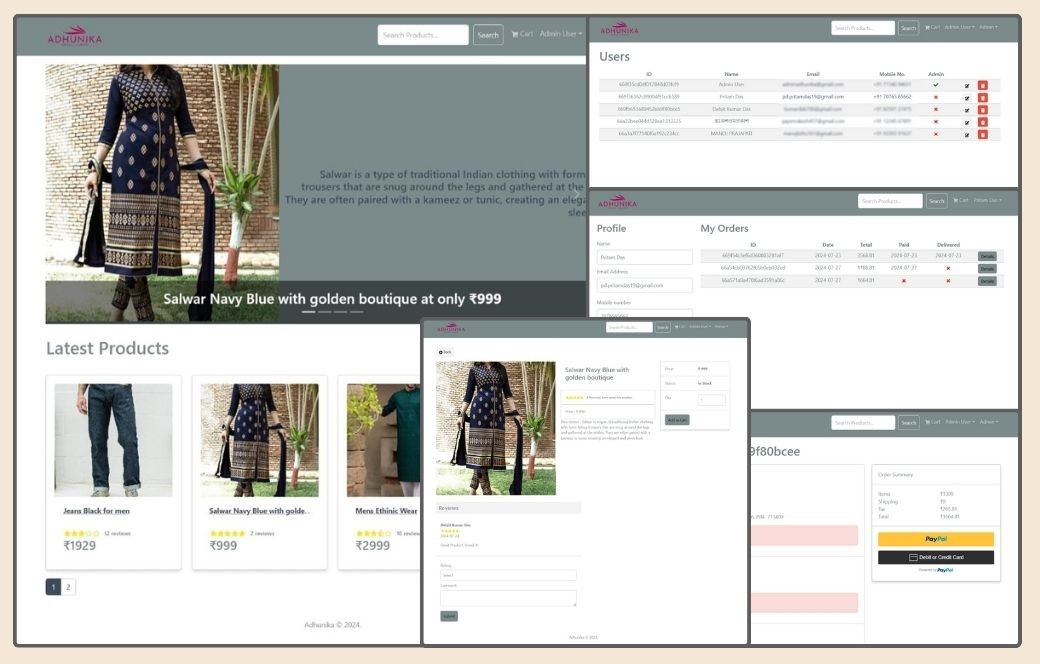
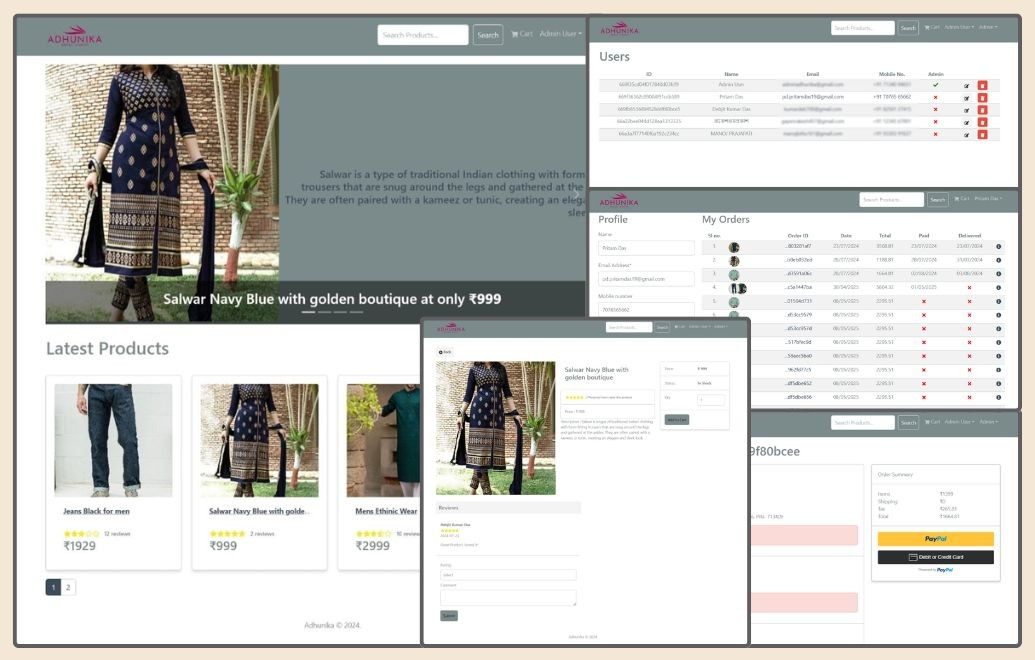
Forntend: Profile Screen Updated

diff --git a/frontend/src/screens/ProfileScreen.jsx b/frontend/src/screens/ProfileScreen.jsx
@@ -1,18 +1,18 @@
-import React from 'react'
-import { useState, useEffect } from "react"
+import React, { useState, useEffect } from "react"
+import { Link } from "react-router-dom"
 import { Table, Form, Button, Row, Col } from "react-bootstrap"
-import { LinkContainer } from "react-router-bootstrap"
 import { useDispatch, useSelector } from "react-redux"
 import { toast } from "react-toastify"
 import Message from "../components/Message"
 import Loader from "../components/Loader"
 import Meta from "../components/Meta.jsx"
 import VerifyOTPModal from "../components/VerifyOTPModal.jsx"
-import { FaTimes, FaEye, FaEyeSlash, FaCheck } from "react-icons/fa"
+import { FaTimes, FaEye, FaEyeSlash, FaCheck, FaInfoCircle } from "react-icons/fa"
 import { useProfileMutation, useSendOtpMutation, useVerifyOtpMutation } from "../slicers/usersApiSlice"
 import { logout, setCredentials } from "../slicers/authSlice"
 import { useGetMyOrdersQuery } from "../slicers/orderApiSlices"
 import { dateFormatting } from "../constants.js"
+import AvatarGroup from "../components/AvatarGroup.jsx"
 
 const ProfileScreen = () => {
   const [name, setName] = useState("")
@@ -200,7 +200,8 @@ const ProfileScreen = () => {
               <thead>
                 <tr>
                   <th>Sl no.</th>
-                  <th>ID</th>
+                  <th></th>
+                  <th>Order ID</th>
                   <th>Date</th>
                   <th>Total</th>
                   <th>Paid</th>
@@ -210,9 +211,12 @@ const ProfileScreen = () => {
               </thead>
               <tbody>
                 {orders.map((order, index) => (
-                  <tr key={order._id}>
+                  <tr key={order._id} className="my-10">
                     <td>{++index}.</td>
-                    <td>{order._id}</td>
+                    <td><AvatarGroup avatars={order.orderItems} size={35} /></td>
+                    <td>
+                      <Link className="text-decoration-none" to={`/order/${order._id}`}><span>...{order._id.slice(-9)}</span></Link>
+                    </td>
                     <td>{dateFormatting(order.createdAt).substring(0, 10)}</td>
                     <td>{order.totalPrice}</td>
                     <td>
@@ -226,9 +230,9 @@ const ProfileScreen = () => {
                       ) : <FaTimes style={{ color: "red" }} />}
                     </td>
                     <td>
-                      <LinkContainer to={`/order/${order._id}`}>
-                        <Button variant="dark" className="btn btn-dark btn-sm">Details</Button>
-                      </LinkContainer>
+                      <Link to={`/order/${order._id}`}>
+                        <FaInfoCircle />
+                      </Link>
                     </td>
                   </tr>
                 ))}

diff --git a/frontend/src/components/AvatarGroup.jsx b/frontend/src/components/AvatarGroup.jsx
@@ -1,0 +1,52 @@
+import React from "react";
+import { Image } from "react-bootstrap";
+
+const AvatarGroup = ({ avatars = [], maxVisible = 2, size = 50 }) => {
+  const visibleAvatars = avatars.slice(0, maxVisible);
+  const extraCount = avatars.length - maxVisible;
+
+  return (
+    <div style={{ display: "flex", alignItems: "center" }}>
+      {visibleAvatars.map((avatar, index) => (
+        <Image
+          key={index}
+          src={avatar.image}
+          alt={avatar.name}
+          roundedCircle
+          width={size}
+          height={size}
+          style={{
+            border: "1.5px solid #7B8A8B",
+            marginLeft: index === 0 ? 0 : -size / 3,
+            zIndex: visibleAvatars.length - index,
+            objectFit: "cover",
+          }}
+          title={avatar.name}
+        />
+      ))}
+      {extraCount > 0 && (
+        <div
+          style={{
+            width: size,
+            height: size,
+            marginLeft: -size / 3,
+            zIndex: 0,
+            backgroundColor: "#6c757d",
+            color: "white",
+            borderRadius: "50%",
+            display: "flex",
+            alignItems: "center",
+            justifyContent: "center",
+            fontWeight: "bold",
+            fontSize: size * 0.4,
+            border: "2px solid white",
+          }}
+        >
+          +{extraCount}
+        </div>
+      )}
+    </div>
+  );
+};
+
+export default AvatarGroup;

diff --git a/README.md b/README.md
@@ -14,10 +14,12 @@ An Ecommerce platform for Adhunika Shop in Kalna
 - Product pagination
 - Product search feature
 - User profile with orders
+- Email verification via OTP on Sign Up
+- Reset Password 
 - Admin product management
 - Admin user management
-- Admin Order details page
-- Mark orders as delivered option
+- Admin order details page
+- Admin order management
 - Checkout process (shipping, payment method, etc)
 - Razorpay / credit card integration
 - Cash On Delivery to place an order without paying
@@ -33,6 +35,13 @@ PORT = 5000
 MONGO_URI = your mongodb uri
 JWT_SECRET = your jwt secret
 PAYPAL_CLIENT_ID = your paypal client id
+CLOUDINARY_CLOUD_NAME = your cloudinary cloud name
+CLOUDINARY_API_KEY = your cloudinary api key
+CLOUDINARY_API_SECRET = your cloudinary api secret
+RAZORPAY_KEY_ID = your razorpay key id 
+RAZORPAY_SECRET = your razorpay secret
+EMAIL_USER = your_email_user
+EMAIL_PASS = your_email_app_password
 ```
 
 ### Install Dependencies (frontend & backend)
